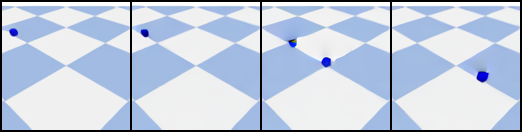
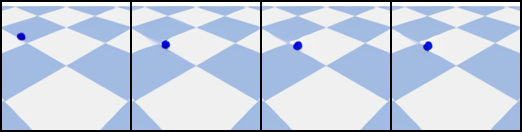
added new pinn with noise and action prediction

diff --git a/src/trainer_dit_pnn_joint.py b/src/trainer_dit_pnn_joint.py
@@ -6,7 +6,7 @@ import torch.distributed as dist
 from torch.nn.parallel import DistributedDataParallel as DDP
 from tqdm import tqdm
 from torch.utils.data import DataLoader
-from src.dataset.data_set_set_pinn import DatasetObjectSeqTrj
+from src.dataset.data_set_set_pinn import DatasetObjectSeqTrj, DatasetObjectSeqTrjTest
 from src.models.diffusion_trans_pnn import (
     DiTActionFramesSeqJoint,
 )
@@ -112,6 +112,10 @@ class DiTTrainerPNNJoint(TrainerBase):
             data_path=self.data_path, transform=transform, seq_l=model_config["seq_len"]
         )
 
+        val_dataset = DatasetObjectSeqTrjTest(
+            data_path=self.data_path, transform=transform, seq_l=model_config["seq_len"]
+        )
+
         sampler = DistributedSampler(
             self.dataset,
             num_replicas=dist.get_world_size(),
@@ -132,7 +136,7 @@ class DiTTrainerPNNJoint(TrainerBase):
         )
 
         self.val_loader = (
-            DataLoader(val_dataset, batch_size=32, shuffle=False)
+            DataLoader(val_dataset, batch_size=10, shuffle=False)
             if val_dataset
             else None
         )
@@ -187,7 +191,7 @@ class DiTTrainerPNNJoint(TrainerBase):
         for epoch in range(self.n_epochs):
             train_loss = self._train_one_epoch(step)
             if step % self.config["trainer"]["val_num"] == 0:
-                val_loss = self._validate_one_epoch() if self.val_loader else None
+                val_loss = self._validate_one_epoch(step) if self.val_loader else None
             print(
                 f"Epoch {epoch+1}/{self.n_epochs}, Training Loss: {train_loss:.4f}",
                 end="",
@@ -226,7 +230,6 @@ class DiTTrainerPNNJoint(TrainerBase):
             time.requires_grad = True
             initial_position.requires_grad = True
             initial_velocity.requires_grad = True
-
             with torch.no_grad():
                 b, _, _, _, _ = frames_t.shape
                 x = rearrange(frames_t, "b f c h w -> (b f) c h w").contiguous()
@@ -240,7 +243,8 @@ class DiTTrainerPNNJoint(TrainerBase):
                 0, self.diffusion_s.num_timesteps, (x.shape[0],), device=self.device
             )
             model_kwargs = dict(
-                a=initial_params,
+                init=initial_params,
+                a=positions,
                 # img_c=x[:, : self.mask_num, :, :, :],
                 mask_frame_num=self.mask_num,
             )
@@ -249,7 +253,6 @@ class DiTTrainerPNNJoint(TrainerBase):
             )
             loss = loss_dict["loss"].mean()
             loss_pos = loss_dict["loss_act"].mean()
-            print(loss_dict["act_out"].size())
             loss_phy = self.physic_loss(loss_dict["act_out"], time, velocity)
 
             if self.config["trainer"]["wandb_log"]:
@@ -266,18 +269,18 @@ class DiTTrainerPNNJoint(TrainerBase):
             # update_ema(self.ema, self.model_ddp.module)
             running_loss += total_loss.item()
 
-            if step % self.config["trainer"]["val_num"] == 0:
-                self.save_image_actions(
-                    step=step,
-                    x=x,
-                    frames=frames_t,
-                    positions=positions,
-                    initial_position=initial_position,
-                    initial_velocity=initial_velocity,
-                    time=time,
-                    # goal_img=x[:, : self.mask_num, :, :, :],
-                )
-                self.model_ddp.train()
+            # if step % self.config["trainer"]["val_num"] == 0:
+            #     self.save_image_actions(
+            #         step=step,
+            #         x=x,
+            #         frames=frames_t,
+            #         positions=positions,
+            #         initial_position=initial_position,
+            #         initial_velocity=initial_velocity,
+            #         time=time,
+            #         # goal_img=x[:, : self.mask_num, :, :, :],
+            #     )
+            #     self.model_ddp.train()
 
         return running_loss
 
@@ -315,46 +318,37 @@ class DiTTrainerPNNJoint(TrainerBase):
         phys_loss = torch.mean((speed_n * df - velocity) ** 2)
         return phys_loss
 
-    def _validate_one_epoch(self):
+    def _validate_one_epoch(self, step):
+        print("--------------------Evaluating------------------")
         self.model_ddp.eval()
         running_loss = 0.0
         with torch.no_grad():
-            for current_img, next_seq, action in tqdm(self.val_loader, desc="Training"):
-                current_img, next_seq, action = (
-                    current_img.to(device=self.device, dtype=torch.float32),
-                    next_seq.to(self.device, dtype=torch.float32),
-                    action.to(self.device, dtype=torch.float32),
+            for frames_t, positions, orientations, velocity, time in tqdm(
+                self.val_loader, desc="Training"
+            ):
+                frames_t, positions, orientations, velocity, time = (
+                    frames_t.to(device=self.device, dtype=torch.float32),
+                    positions.to(self.device, dtype=torch.float32),
+                    orientations.to(self.device, dtype=torch.float32),
+                    velocity.to(self.device, dtype=torch.float32),
+                    time.to(self.device, dtype=torch.float32),
                 )
-                b, _, _, _, _ = next_seq.shape
-                x = rearrange(next_seq, "b f c h w -> (b f) c h w").contiguous()
+                b, _, _, _, _ = frames_t.shape
+                x = rearrange(frames_t, "b f c h w -> (b f) c h w").contiguous()
                 x = self.vae.encode(x).latent_dist.sample().mul_(0.18215)
                 x = rearrange(x, "(b f) c h w -> b f c h w", b=b).contiguous()
-                goal_img = (
-                    self.vae.encode(current_img[:1, :, :])
-                    .latent_dist.sample()
-                    .mul_(0.18215)
+                initial_position = copy.deepcopy(positions[:, 0, :])
+                initial_velocity = copy.deepcopy(velocity[:, 0, :])
+                self.save_image_actions(
+                    step=step,
+                    x=x,
+                    frames=frames_t,
+                    positions=positions,
+                    initial_position=initial_position,
+                    initial_velocity=initial_velocity,
+                    time=time,
                 )
-                model_kwargs = dict(a=action, mask_frame_num=1, img_c=goal_img)
-                z = torch.randn_like(
-                    x,
-                    device=self.device,
-                )
-                z[:, : self.mask_num, :, :] = x[:, : self.mask_num, :, :]
-                samples, actions_pred = self.diffusion_s.p_sample_loop(
-                    self.ema,
-                    z.shape,
-                    z,
-                    clip_denoised=False,
-                    progress=True,
-                    model_kwargs=model_kwargs,
-                    device=self.device,
-                )
-                samples = rearrange(samples, "b f c h w -> (b f) c h w").contiguous()
-                samples = self.vae.decode(samples / 0.18215).sample
-                samples = rearrange(
-                    samples, "(b f) c h w -> b f c h w", b=b
-                ).contiguous()
-                batchsize = np.random.choice(b)
+
         return running_loss / len(self.val_loader.dataset)
 
     def _save_checkpoint(self):
@@ -374,7 +368,7 @@ class DiTTrainerPNNJoint(TrainerBase):
                 (initial_position, time, initial_velocity), dim=1
             )
             model_kwargs = dict(
-                a=initial_params, mask_frame_num=self.mask_num
+                init=initial_params, a=positions, mask_frame_num=self.mask_num
             )  # , img_c=goal_img
 
             z = torch.randn_like(
@@ -382,7 +376,7 @@ class DiTTrainerPNNJoint(TrainerBase):
                 device=self.device,
             )
             z[:, : self.mask_num, :, :] = x[:, : self.mask_num, :, :]
-            samples = self.diffusion_s.p_sample_loop(
+            samples, position_pred = self.diffusion_s.p_sample_loop(
                 self.model_ddp.module,
                 z.shape,
                 z,

diff --git a/src/models/diffusion_trans_pnn.py b/src/models/diffusion_trans_pnn.py
@@ -72,7 +72,7 @@ class DiTActionSeqAct(nn.Module):
                     self.hidden_size,
                     self.num_heads,
                     mlp_ratio=self.mlp_ratio,
-                    attention_mode="causal_linear",
+                    attention_mode="math",
                 )
                 for _ in range(self.depth)
             ]
@@ -240,7 +240,7 @@ class DiTActionFramesSeqJoint(DiTActionSeqAct):
     def __init__(self, config):
         super().__init__(config)
         self.pos_embed_act = nn.Parameter(
-            torch.zeros(1, 4, self.hidden_size), requires_grad=False
+            torch.zeros(1, 1, self.hidden_size), requires_grad=False
         )
 
         self.temp_embed = nn.Parameter(
@@ -252,9 +252,7 @@ class DiTActionFramesSeqJoint(DiTActionSeqAct):
         )
         self.temp_embed.data.copy_(torch.from_numpy(temp_embed).float().unsqueeze(0))
 
-        pos_embed_act = get_2d_sincos_pos_embed(
-            self.pos_embed_act.shape[-1], int(self.seq_len**0.5)
-        )
+        pos_embed_act = get_1d_sincos_temp_embed(self.pos_embed_act.shape[-1], 1)
         self.pos_embed_act.data.copy_(
             torch.from_numpy(pos_embed_act).float().unsqueeze(0)
         )
@@ -262,7 +260,7 @@ class DiTActionFramesSeqJoint(DiTActionSeqAct):
         self.final_layer_act = FinalLayer(
             self.hidden_size, self.seq_len, self.action_dim
         )
-        self.downsample_layer = nn.Linear(2023, 3)
+        self.downsample_layer = nn.Linear(160, 3)
         # Zero-out output layers:
         nn.init.constant_(self.final_layer_act.adaLN_modulation[-1].weight, 0)
         nn.init.constant_(self.final_layer_act.adaLN_modulation[-1].bias, 0)
@@ -270,7 +268,7 @@ class DiTActionFramesSeqJoint(DiTActionSeqAct):
         nn.init.constant_(self.final_layer_act.linear.bias, 0)
         nn.init.normal_(self.downsample_layer.weight, std=0.02)
 
-    def forward(self, x, t, a, mask_frame_num=None):
+    def forward(self, x, t, a, init, mask_frame_num=None):
         """
         Forward pass of DiT which now also takes actions as input
         x: (N, L, C, H, W) tensor of video inputs
@@ -280,16 +278,15 @@ class DiTActionFramesSeqJoint(DiTActionSeqAct):
         batch_sz, l, ch, h, w = x.shape
         x = rearrange(x, "b f c h w -> (b f) c h w")
         x = self.x_embedder(x) + self.pos_embed
-        print(self.a_embedder(a).size())
-        print(self.pos_embed_act.size())
-        a = self.a_embedder(a) + self.pos_embed_act  # (N, D) Action embedding
-        print(x.size())
-        print(a.size())
-        x = torch.cat(x, a, dim=1)
+        init_params = self.a_embedder(init)
+        init_params = repeat(init_params, "b f -> b c f", c=4)
+        init_params = rearrange(init_params, "b (c l) f -> (b c) l f", c=4)
+        init_params = init_params + self.pos_embed_act  # (N, D) Action embedding
+        x = torch.cat((x, init_params), dim=1)
         t = self.t_embedder(t)  # (N, D)
 
-        timestep_spatial = repeat(t, "n d -> (n c) d", c=self.seq_len + 1)
-        timestep_temp = repeat(t, "n d -> (n c) d", c=(self.pos_embed.shape[1]))
+        timestep_spatial = repeat(t, "n d -> (n c) d", c=self.seq_len)
+        timestep_temp = repeat(t, "n d -> (n c) d", c=(self.pos_embed.shape[1] + 1))
         # y_feat = img_c.flatten(start_dim=1)
         # y_emb = self.img_c_embedder(y_feat)
         for i in range(0, len(self.blocks), 2):
@@ -303,12 +300,12 @@ class DiTActionFramesSeqJoint(DiTActionSeqAct):
             c = timestep_temp
             x = temp_block(x, c)
             x = rearrange(x, "(b t) f d -> (b f) t d", b=batch_sz)
-        c = timestep_spatial + a
-        x_act = self.final_layer_act(x[:, 9:10, :], c)
+        c = timestep_spatial
+        x_act = self.final_layer_act(x[:, 64:, :], c)
         x_act = torch.einsum("nhw->nhw", x_act)
         x_act = x_act.view((batch_sz, l, -1))  # torch.Size([32, 16, 7])
         x_act = self.downsample_layer(x_act)
-        x = self.final_layer(x, c)
+        x = self.final_layer(x[:, :64, :], c)
         x = self.unpatchify(x)  # (N, out_channels, H, W)
         x = rearrange(x, "(b f) c h w -> b f c h w", b=batch_sz)
         return x, x_act

diff --git a/src/models/difussion_utils/gaussian_diffusion_seq.py b/src/models/difussion_utils/gaussian_diffusion_seq.py
@@ -1065,10 +1065,9 @@ class GaussianDiffusionSeqAct(GaussianDiffusionSeq):
             out["mean"] + nonzero_mask * torch.exp(0.5 * out["log_variance"]) * noise
         )
 
-        # sample_act = (
-        #     out["act_mean"]
-        #     + nonzero_mask_act * torch.exp(0.5 * out["act_log_variance"]) * noise_act
-        # )
+        sample[:, : model_kwargs["mask_frame_num"], :, :, :] = x[
+            :, : model_kwargs["mask_frame_num"], :, :, :
+        ]
         return {
             "sample": sample,
             "pred_xstart": out["pred_xstart"],
@@ -1218,12 +1217,12 @@ class GaussianDiffusionSeqAct(GaussianDiffusionSeq):
             model_kwargs = {}
 
         mask_frame_num = model_kwargs["mask_frame_num"]
-        x_action = model_kwargs["a"]
+        init_param = model_kwargs["init"]
 
         if noise is None:
             # noise = torch.randn_like(x_start)
             unmask_noise = torch.randn_like(x_start[:, mask_frame_num:, :])
-            action_noised = torch.rand_like(x_action)
+            # action_noised = torch.rand_like(x_action)
 
         terms = {}
 
@@ -1234,7 +1233,7 @@ class GaussianDiffusionSeqAct(GaussianDiffusionSeq):
 
         unmask_x_t = self.q_sample(unmask_x_start, t, noise=unmask_noise)
         x_t = torch.cat([mask_x_x_start, unmask_x_t], dim=1)
-        a_t = x_action[:, :]  # self.q_sample(x_action, t, noise=action_noised)
+        # self.q_sample(x_action, t, noise=action_noised)
         # model_kwargs["a"] = a_t
 
         if (
@@ -1282,8 +1281,8 @@ class GaussianDiffusionSeqAct(GaussianDiffusionSeq):
                     x_t=x_t[:, mask_frame_num:],
                     t=t,
                     clip_denoised=False,
-                    action=model_kwargs["a"],
-                    a_t=a_t,
+                    action=model_kwargs["init"],
+                    a_t=init_param,
                     whitout_action=False,
                 )
 
@@ -1306,7 +1305,7 @@ class GaussianDiffusionSeqAct(GaussianDiffusionSeq):
                 gd.ModelMeanType.EPSILON: unmask_noise,
             }[self.model_mean_type]
 
-            target_act = x_action
+            target_act = model_kwargs["a"]
             assert (
                 model_output[:, mask_frame_num:].shape
                 == target.shape
